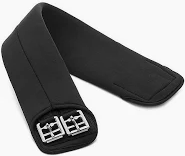
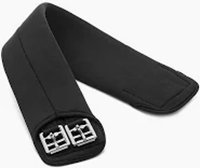
tienda

diff --git a/tienda.html b/tienda.html
@@ -29,15 +29,15 @@
         <div class=" orden_productos">
             
             <div class="producto">
-                <img src="./rescursos/tienda/cabezada_vaquera.webp" alt="Cabezada Vaquera">
+                <img src="./rescursos/tienda/cabezada_vaquera.png" alt="Cabezada Vaquera">
                 <p class="texto"><b>Cabezada vaquera</b></p><p class="precio">274,40€</p>
             </div>
             <div class="producto">
-                <img src="./rescursos/tienda/cabezada_trabajo.webp" alt="Cabeza de trabajo">
+                <img src="./rescursos/tienda/cabezada_trabajo.png" alt="Cabeza de trabajo">
                 <p class="texto"><b>Cabezada de nylon <br> Waldhausen Economic</b></p><p class="precio">24,95€</p>
             </div>
             <div class="producto">
-                <img src="./rescursos/tienda/cabezada_portuguesa.webp" alt="Cabezada Portuguesa">
+                <img src="./rescursos/tienda/cabezada_portuguesa.png" alt="Cabezada Portuguesa">
                 <p class="texto"><b>Cabezada portuguesa</b></p><p class="precio">35,00€</p>
             </div>
         </div>
@@ -49,7 +49,7 @@
         <div class=" orden_productos">
             
             <div class="producto">
-                <a href="./informacion_producto.html"><img src="./rescursos/tienda/silla_vaquera.webp" alt="Silla Vaquera"></a>
+                <a href="./informacion_producto.html"><img src="./rescursos/tienda/silla_vaquera.png" alt="Silla Vaquera"></a>
                 <p class="texto"><b>Silla vaquera <br>COMPLETA de CASTECUS</b></p><p class="precio">432,03€</p>
             </div>
             <div class="producto">
@@ -71,15 +71,15 @@
             <div class=" orden_productos">
                 
                 <div class="producto">
-                    <img src="./rescursos/tienda/maletin.webp" alt="Maletin de Ramplones">
+                    <img src="./rescursos/tienda/maletin.png" alt="Maletin de Ramplones">
                     <p class="texto"><b>Maletín de ramplones <br>con tungsteno M12</b></p><p class="precio">274,40€</p>
                 </div>
                 <div class="producto">
-                    <img src="./rescursos/tienda/cepillo.webp" alt="Cepillo">
+                    <img src="./rescursos/tienda/cepillo.png" alt="Cepillo">
                     <p class="texto"><b>Cepillo "INFINITY R2" <br>de ARTERO</b></p><p class="precio">24,95€</p>
                 </div>
                 <div class="producto">
-                    <img src="./rescursos/tienda/alimento_complementario.webp" alt="Alimento complementario">
+                    <img src="./rescursos/tienda/alimento_complementario.png" alt="Alimento complementario">
                     <p class="texto"><b>Alimento Complementario <br>"ANXIOUS FLASH" 25gr de LPC</b></p><p class="precio">35,00€</p>
                 </div>
             </div>
@@ -91,15 +91,15 @@
         <div class=" orden_productos">
             
             <div class="producto">
-                <img src="./rescursos/tienda/casco.webp" alt="Casco">
+                <img src="./rescursos/tienda/casco.png" alt="Casco">
                 <p class="texto"><b>Casco "Exxential II <br>LED" de Uvex</b></p><p class="precio">179,95€</p>
             </div>
             <div class="producto">
-                <img src="./rescursos/tienda/guantes.webp" alt="Guantes">
+                <img src="./rescursos/tienda/guantes.png" alt="Guantes">
                 <p class="texto"><b>Guantes de equitación <br>"MULTI" de Q-ESSENTIALS</b></p><p class="precio">14,95€</p>
             </div>
             <div class="producto">
-                <img src="./rescursos/tienda/espuelas.webp" alt="Espuelas">
+                <img src="./rescursos/tienda/espuelas.png" alt="Espuelas">
                 <p class="texto"><b>Espuelas de equitación <br>UK Inoxidable de Feeling</b></p><p class="precio">15,54€</p>
             </div>
         </div>
